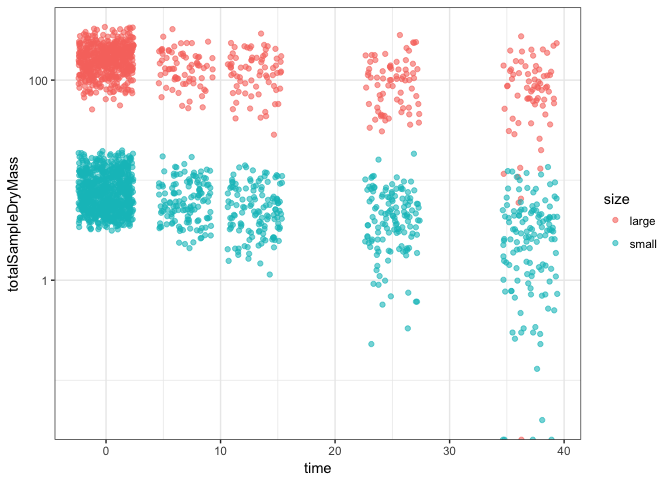
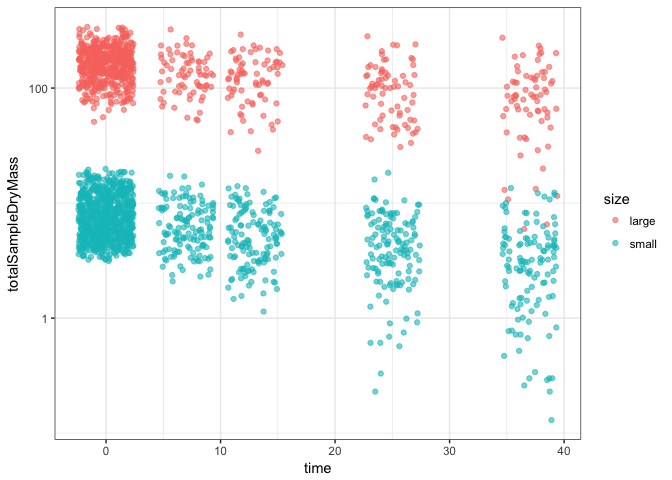
more checks

diff --git a/README.md b/README.md
@@ -127,49 +127,62 @@ mass.data %>%
   knitr::kable()
 ```
 
-| unique   | Species    | size     |     time|  totalSampleDryMass|  density| fruiting | insects | drill | notes |
-|:---------|:-----------|:---------|--------:|-------------------:|--------:|:---------|:--------|:------|:------|
-| olst1e   | olst       | small    |        0|                  NA|       NA| NA       | NA      | NA    | NA    |
-| olst1j   | olst       | small    |        0|                  NA|       NA| NA       | NA      | NA    | NA    |
-| olst1i   | olst       | small    |        0|                  NA|       NA| NA       | NA      | NA    | NA    |
-| olst2j   | olst       | small    |        0|                  NA|       NA| NA       | NA      | NA    | NA    |
-| olst2b   | olst       | small    |        0|                  NA|       NA| NA       | NA      | NA    | NA    |
-| olst2d   | olst       | small    |        0|                  NA|       NA| NA       | NA      | NA    | NA    |
-| olst4h   | olst       | small    |        0|                  NA|       NA| NA       | NA      | NA    | NA    |
-| olst1c   | olst       | small    |        0|                  NA|       NA| NA       | NA      | NA    | NA    |
-| olst3a   | olst       | small    |        0|                  NA|       NA| NA       | NA      | NA    | NA    |
-| olst3b   | olst       | small    |        0|                  NA|       NA| NA       | NA      | NA    | NA    |
-| olst4e   | olst       | small    |        0|                  NA|       NA| NA       | NA      | NA    | NA    |
-| olst1a   | olst       | small    |        0|                  NA|       NA| NA       | NA      | NA    | NA    |
-| olst4f   | olst       | small    |        0|                  NA|       NA| NA       | NA      | NA    | NA    |
-| olst2i   | olst       | small    |        0|                  NA|       NA| NA       | NA      | NA    | NA    |
-| olst2e   | olst       | small    |        0|                  NA|       NA| NA       | NA      | NA    | NA    |
-| olst4i   | olst       | small    |        0|                  NA|       NA| NA       | NA      | NA    | NA    |
-| olst2g   | olst       | small    |        0|                  NA|       NA| NA       | NA      | NA    | NA    |
-| olst1d   | olst       | small    |        0|                  NA|       NA| NA       | NA      | NA    | NA    |
-| olst2h   | olst       | small    |        0|                  NA|       NA| NA       | NA      | NA    | NA    |
-| olst2c   | olst       | small    |        0|                  NA|       NA| NA       | NA      | NA    | NA    |
-| olst4c   | olst       | small    |        0|                  NA|       NA| NA       | NA      | NA    | NA    |
-| olst2f   | olst       | small    |        0|                  NA|       NA| NA       | NA      | NA    | NA    |
-| olst2a   | olst       | small    |        0|                  NA|       NA| NA       | NA      | NA    | NA    |
-| olst4b   | olst       | small    |        0|                  NA|       NA| NA       | NA      | NA    | NA    |
-| olst1b   | olst       | small    |        0|                  NA|       NA| NA       | NA      | NA    | NA    |
-| olst1k   | olst       | small    |        0|                  NA|       NA| NA       | NA      | NA    | NA    |
-| olst1g   | olst       | small    |        0|                  NA|       NA| NA       | NA      | NA    | NA    |
-| olst1h   | olst       | small    |        0|                  NA|       NA| NA       | NA      | NA    | NA    |
-| olst4g   | olst       | small    |        0|                  NA|       NA| NA       | NA      | NA    | NA    |
-| olst4a   | olst       | small    |        0|                  NA|       NA| NA       | NA      | NA    | NA    |
-| olst3c   | olst       | small    |        0|                  NA|       NA| NA       | NA      | NA    | NA    |
-| olst1f   | olst       | small    |        0|                  NA|       NA| NA       | NA      | NA    | NA    |
-| olst4d   | olst       | small    |        0|                  NA|       NA| NA       | NA      | NA    | NA    |
-| Identify | outliers i | n mass l |  oss dat|                   a|         |          |         |       |       |
+| unique     | Species    | size    |     time|  totalSampleDryMass|  density| fruiting      | insects | drill | notes                                                       |
+|:-----------|:-----------|:--------|--------:|-------------------:|--------:|:--------------|:--------|:------|:------------------------------------------------------------|
+| olst1e     | olst       | small   |        0|                  NA|       NA| NA            | NA      | NA    | NA                                                          |
+| olst1j     | olst       | small   |        0|                  NA|       NA| NA            | NA      | NA    | NA                                                          |
+| olst1i     | olst       | small   |        0|                  NA|       NA| NA            | NA      | NA    | NA                                                          |
+| olst2j     | olst       | small   |        0|                  NA|       NA| NA            | NA      | NA    | NA                                                          |
+| olst2b     | olst       | small   |        0|                  NA|       NA| NA            | NA      | NA    | NA                                                          |
+| olst2d     | olst       | small   |        0|                  NA|       NA| NA            | NA      | NA    | NA                                                          |
+| olst4h     | olst       | small   |        0|                  NA|       NA| NA            | NA      | NA    | NA                                                          |
+| olst1c     | olst       | small   |        0|                  NA|       NA| NA            | NA      | NA    | NA                                                          |
+| olst3a     | olst       | small   |        0|                  NA|       NA| NA            | NA      | NA    | NA                                                          |
+| olst3b     | olst       | small   |        0|                  NA|       NA| NA            | NA      | NA    | NA                                                          |
+| olst4e     | olst       | small   |        0|                  NA|       NA| NA            | NA      | NA    | NA                                                          |
+| olst1a     | olst       | small   |        0|                  NA|       NA| NA            | NA      | NA    | NA                                                          |
+| olst4f     | olst       | small   |        0|                  NA|       NA| NA            | NA      | NA    | NA                                                          |
+| olst2i     | olst       | small   |        0|                  NA|       NA| NA            | NA      | NA    | NA                                                          |
+| olst2e     | olst       | small   |        0|                  NA|       NA| NA            | NA      | NA    | NA                                                          |
+| olst4i     | olst       | small   |        0|                  NA|       NA| NA            | NA      | NA    | NA                                                          |
+| olst2g     | olst       | small   |        0|                  NA|       NA| NA            | NA      | NA    | NA                                                          |
+| olst1d     | olst       | small   |        0|                  NA|       NA| NA            | NA      | NA    | NA                                                          |
+| olst2h     | olst       | small   |        0|                  NA|       NA| NA            | NA      | NA    | NA                                                          |
+| olst2c     | olst       | small   |        0|                  NA|       NA| NA            | NA      | NA    | NA                                                          |
+| olst4c     | olst       | small   |        0|                  NA|       NA| NA            | NA      | NA    | NA                                                          |
+| olst2f     | olst       | small   |        0|                  NA|       NA| NA            | NA      | NA    | NA                                                          |
+| olst2a     | olst       | small   |        0|                  NA|       NA| NA            | NA      | NA    | NA                                                          |
+| olst4b     | olst       | small   |        0|                  NA|       NA| NA            | NA      | NA    | NA                                                          |
+| olst1b     | olst       | small   |        0|                  NA|       NA| NA            | NA      | NA    | NA                                                          |
+| olst1k     | olst       | small   |        0|                  NA|       NA| NA            | NA      | NA    | NA                                                          |
+| olst1g     | olst       | small   |        0|                  NA|       NA| NA            | NA      | NA    | NA                                                          |
+| olst1h     | olst       | small   |        0|                  NA|       NA| NA            | NA      | NA    | NA                                                          |
+| olst4g     | olst       | small   |        0|                  NA|       NA| NA            | NA      | NA    | NA                                                          |
+| olst4a     | olst       | small   |        0|                  NA|       NA| NA            | NA      | NA    | NA                                                          |
+| olst3c     | olst       | small   |        0|                  NA|       NA| NA            | NA      | NA    | NA                                                          |
+| olst1f     | olst       | small   |        0|                  NA|       NA| NA            | NA      | NA    | NA                                                          |
+| olst4d     | olst       | small   |        0|                  NA|       NA| NA            | NA      | NA    | NA                                                          |
+| ripi1j     | ripi       | small   |       37|                  NA|       NA|               | 4       | yes   | completely rotted, no sample -- completely rotted/no sample |
+| eute2b     | eute       | small   |       37|                  NA|       NA|               | NA      | yes   | all wwe -- all wet weight excess                            |
+| acel2f     | acel       | small   |       37|                  NA|       NA|               | 3       | yes   | all wwe -- all wet weight excess                            |
+| olst1c     | olst       | small   |       37|                  NA|       NA|               | NA      | yes   | all wwe -- all wet weight excess                            |
+| eusc3j     | eusc       | small   |       37|                  NA|       NA|               | 3       | yes   | all wwe -- all wet weight excess                            |
+| ALLI311    | ALLI       | large   |       37|                  NA|       NA|               | NA      | no    | missing from plot -- missing                                |
+| hase2b     | hase       | small   |       37|                  NA|       NA|               | 4       | no    | completely rotted, no sample -- completely rotted/no sample |
+| anba3g     | anba       | small   |       37|                  NA|       NA| orange hyphae | 3       | no    | all wwe -- all wet weight excess                            |
+| anba3f     | anba       | small   |       37|                  NA|       NA|               | 3       | no    | all wwe -- all wet weight excess                            |
+| baae1a     | baae       | small   |       37|                  NA|       NA|               | NA      | no    | missing from plot -- missing from plot                      |
+| eute1e     | eute       | small   |       37|                  NA|       NA|               | 4       | no    | missing/rotted -- missing/rotted                            |
+| eute1l     | eute       | small   |       37|                  NA|       NA|               | 4       | no    | all wwe -- completely rotted                                |
+| cota1d     | cota       | small   |       37|                  NA|       NA|               | NA      | yes   | -- most crumbled                                            |
+| Identify o | utliers in | mass lo |  ss data|                    |         |               |         |       |                                                             |
 
 ``` r
 mass.data %>% 
   ggplot(aes(x=time, y=totalSampleDryMass)) + geom_point(alpha=0.6)+theme_bw() 
 ```
 
-    ## Warning: Removed 33 rows containing missing values (geom_point).
+    ## Warning: Removed 46 rows containing missing values (geom_point).
 
 ![](readme_files/figure-markdown_github-ascii_identifiers/unnamed-chunk-5-1.png)
 
@@ -198,9 +211,7 @@ mass.data %>%
   geom_point(position="jitter",alpha=0.6)+theme_bw()+scale_y_log10()
 ```
 
-    ## Warning: Transformation introduced infinite values in continuous y-axis
-
-    ## Warning: Removed 33 rows containing missing values (geom_point).
+    ## Warning: Removed 46 rows containing missing values (geom_point).
 
 ![](readme_files/figure-markdown_github-ascii_identifiers/unnamed-chunk-6-1.png)
 
@@ -228,15 +239,10 @@ Are these real 0's?
 mass.data[which(mass.data$totalSampleDryMass==0),]
 ```
 
-    ## # A tibble: 5 x 10
-    ##    unique Species  size  time totalSampleDryMass density fruiting insects
-    ##     <chr>   <chr> <chr> <dbl>              <dbl>   <dbl>    <chr>   <chr>
-    ## 1  ripi1j    ripi small    37                  0     NaN                4
-    ## 2 ALLI311    ALLI large    37                  0     NaN             <NA>
-    ## 3  hase2b    hase small    37                  0     NaN                4
-    ## 4  baae1a    baae small    37                  0     NaN             <NA>
-    ## 5  eute1e    eute small    37                  0     NaN                4
-    ## # ... with 2 more variables: drill <chr>, notes <chr>
+    ## # A tibble: 0 x 10
+    ## # ... with 10 variables: unique <chr>, Species <chr>, size <chr>,
+    ## #   time <dbl>, totalSampleDryMass <dbl>, density <dbl>, fruiting <chr>,
+    ## #   insects <chr>, drill <chr>, notes <chr>
 
 Remove outliers from mass.data and merge time zero with the other harvests to calculate proportion mass remaining at each time point
 
@@ -263,65 +269,77 @@ mass.data %>%
     knitr::kable()
 ```
 
-| unique | Species | size  |  time|  totalSampleDryMass|  density| fruiting                | insects        | drill | notes                            |  timeZeroMass|  timeZeroDensity|  pmr| SpeciesCode |
-|:-------|:--------|:------|-----:|-------------------:|--------:|:------------------------|:---------------|:------|:---------------------------------|-------------:|----------------:|----:|:------------|
-| olst1e | olst    | small |     0|                  NA|       NA| NA                      | NA             | NA    | NA                               |            NA|               NA|   NA| olst        |
-| olst1j | olst    | small |     0|                  NA|       NA| NA                      | NA             | NA    | NA                               |            NA|               NA|   NA| olst        |
-| olst1i | olst    | small |     0|                  NA|       NA| NA                      | NA             | NA    | NA                               |            NA|               NA|   NA| olst        |
-| olst2j | olst    | small |     0|                  NA|       NA| NA                      | NA             | NA    | NA                               |            NA|               NA|   NA| olst        |
-| olst2b | olst    | small |     0|                  NA|       NA| NA                      | NA             | NA    | NA                               |            NA|               NA|   NA| olst        |
-| olst2d | olst    | small |     0|                  NA|       NA| NA                      | NA             | NA    | NA                               |            NA|               NA|   NA| olst        |
-| olst4h | olst    | small |     0|                  NA|       NA| NA                      | NA             | NA    | NA                               |            NA|               NA|   NA| olst        |
-| olst1c | olst    | small |     0|                  NA|       NA| NA                      | NA             | NA    | NA                               |            NA|               NA|   NA| olst        |
-| olst3a | olst    | small |     0|                  NA|       NA| NA                      | NA             | NA    | NA                               |            NA|               NA|   NA| olst        |
-| olst3b | olst    | small |     0|                  NA|       NA| NA                      | NA             | NA    | NA                               |            NA|               NA|   NA| olst        |
-| olst4e | olst    | small |     0|                  NA|       NA| NA                      | NA             | NA    | NA                               |            NA|               NA|   NA| olst        |
-| olst1a | olst    | small |     0|                  NA|       NA| NA                      | NA             | NA    | NA                               |            NA|               NA|   NA| olst        |
-| olst4f | olst    | small |     0|                  NA|       NA| NA                      | NA             | NA    | NA                               |            NA|               NA|   NA| olst        |
-| olst2i | olst    | small |     0|                  NA|       NA| NA                      | NA             | NA    | NA                               |            NA|               NA|   NA| olst        |
-| olst2e | olst    | small |     0|                  NA|       NA| NA                      | NA             | NA    | NA                               |            NA|               NA|   NA| olst        |
-| olst4i | olst    | small |     0|                  NA|       NA| NA                      | NA             | NA    | NA                               |            NA|               NA|   NA| olst        |
-| olst2g | olst    | small |     0|                  NA|       NA| NA                      | NA             | NA    | NA                               |            NA|               NA|   NA| olst        |
-| olst1d | olst    | small |     0|                  NA|       NA| NA                      | NA             | NA    | NA                               |            NA|               NA|   NA| olst        |
-| olst2h | olst    | small |     0|                  NA|       NA| NA                      | NA             | NA    | NA                               |            NA|               NA|   NA| olst        |
-| olst2c | olst    | small |     0|                  NA|       NA| NA                      | NA             | NA    | NA                               |            NA|               NA|   NA| olst        |
-| olst4c | olst    | small |     0|                  NA|       NA| NA                      | NA             | NA    | NA                               |            NA|               NA|   NA| olst        |
-| olst2f | olst    | small |     0|                  NA|       NA| NA                      | NA             | NA    | NA                               |            NA|               NA|   NA| olst        |
-| olst2a | olst    | small |     0|                  NA|       NA| NA                      | NA             | NA    | NA                               |            NA|               NA|   NA| olst        |
-| olst4b | olst    | small |     0|                  NA|       NA| NA                      | NA             | NA    | NA                               |            NA|               NA|   NA| olst        |
-| olst1b | olst    | small |     0|                  NA|       NA| NA                      | NA             | NA    | NA                               |            NA|               NA|   NA| olst        |
-| olst1k | olst    | small |     0|                  NA|       NA| NA                      | NA             | NA    | NA                               |            NA|               NA|   NA| olst        |
-| olst1g | olst    | small |     0|                  NA|       NA| NA                      | NA             | NA    | NA                               |            NA|               NA|   NA| olst        |
-| olst1h | olst    | small |     0|                  NA|       NA| NA                      | NA             | NA    | NA                               |            NA|               NA|   NA| olst        |
-| olst4g | olst    | small |     0|                  NA|       NA| NA                      | NA             | NA    | NA                               |            NA|               NA|   NA| olst        |
-| olst4a | olst    | small |     0|                  NA|       NA| NA                      | NA             | NA    | NA                               |            NA|               NA|   NA| olst        |
-| olst3c | olst    | small |     0|                  NA|       NA| NA                      | NA             | NA    | NA                               |            NA|               NA|   NA| olst        |
-| olst1f | olst    | small |     0|                  NA|       NA| NA                      | NA             | NA    | NA                               |            NA|               NA|   NA| olst        |
-| olst4d | olst    | small |     0|                  NA|       NA| NA                      | NA             | NA    | NA                               |            NA|               NA|   NA| olst        |
-| olst1j | olst    | small |     7|               10.41|     0.57| NA                      |                | yes   |                                  |            NA|               NA|   NA| olst        |
-| olst1i | olst    | small |     7|               10.20|     0.60| NA                      | 1 lg, 5mm diam | yes   |                                  |            NA|               NA|   NA| olst        |
-| olst1a | olst    | small |     7|                3.15|     0.63| NA                      |                | yes   |                                  |            NA|               NA|   NA| olst        |
-| olst4f | olst    | small |     7|                5.55|     0.61| NA                      |                | no    |                                  |            NA|               NA|   NA| olst        |
-| olst2i | olst    | small |     7|                5.91|     0.61| NA                      |                | no    |                                  |            NA|               NA|   NA| olst        |
-| olst2f | olst    | small |     7|               11.06|     0.59| NA                      |                | no    |                                  |            NA|               NA|   NA| olst        |
-| olst4h | olst    | small |    13|                2.13|     0.56|                         |                | yes   |                                  |            NA|               NA|   NA| olst        |
-| olst4e | olst    | small |    13|                2.99|     0.55|                         |                | yes   |                                  |            NA|               NA|   NA| olst        |
-| olst4c | olst    | small |    13|                4.60|     0.63|                         |                | yes   |                                  |            NA|               NA|   NA| olst        |
-| olst4b | olst    | small |    13|                7.37|     0.52|                         |                | no    |                                  |            NA|               NA|   NA| olst        |
-| olst1k | olst    | small |    13|                6.40|     0.49|                         |                | no    |                                  |            NA|               NA|   NA| olst        |
-| olst1h | olst    | small |    13|                8.64|     0.45|                         |                | no    |                                  |            NA|               NA|   NA| olst        |
-| olst2d | olst    | small |    25|                3.94|     0.09| hyphae                  |                | yes   | 2 pieces                         |            NA|               NA|   NA| olst        |
-| olst3a | olst    | small |    25|                2.93|     0.52| fuzzy brown hyphae      |                | yes   |                                  |            NA|               NA|   NA| olst        |
-| olst2e | olst    | small |    25|                5.31|     0.51| fuzzy brown hyphae      |                | yes   | bark flaking off                 |            NA|               NA|   NA| olst        |
-| olst2g | olst    | small |    25|                2.75|     0.38|                         |                | no    | thin bark almost all gone        |            NA|               NA|   NA| olst        |
-| olst2c | olst    | small |    25|                4.65|     0.32| hyphae                  |                | no    | broken, rotted                   |            NA|               NA|   NA| olst        |
-| olst1b | olst    | small |    25|                4.28|     0.49|                         |                | no    |                                  |            NA|               NA|   NA| olst        |
-| olst2b | olst    | small |    37|                4.85|     0.65| brown mycellium at ends | NA             | yes   | -- bark all off                  |            NA|               NA|   NA| olst        |
-| olst1c | olst    | small |    37|                0.99|      NaN|                         | NA             | yes   | all wwe -- all wet weight excess |            NA|               NA|   NA| olst        |
-| olst3b | olst    | small |    37|                1.53|     0.65| brown mycellium at ends | 1              | no    | --                               |            NA|               NA|   NA| olst        |
-| olst1e | olst    | small |    37|                0.77|      NaN|                         | NA             | yes   | all crumbled once handled --     |            NA|               NA|   NA| olst        |
-| olst4g | olst    | small |    37|                3.32|     0.50|                         | 0              | no    | -- intact, no rot                |            NA|               NA|   NA| olst        |
-| olst4a | olst    | small |    37|                2.58|     0.41|                         | 1              | no    | -- looks intact/slightly soft    |            NA|               NA|   NA| olst        |
+| unique  | Species | size  |  time|  totalSampleDryMass|  density| fruiting                | insects        | drill | notes                                                       |  timeZeroMass|  timeZeroDensity|  pmr| SpeciesCode |
+|:--------|:--------|:------|-----:|-------------------:|--------:|:------------------------|:---------------|:------|:------------------------------------------------------------|-------------:|----------------:|----:|:------------|
+| olst1e  | olst    | small |     0|                  NA|       NA| NA                      | NA             | NA    | NA                                                          |            NA|               NA|   NA| olst        |
+| olst1j  | olst    | small |     0|                  NA|       NA| NA                      | NA             | NA    | NA                                                          |            NA|               NA|   NA| olst        |
+| olst1i  | olst    | small |     0|                  NA|       NA| NA                      | NA             | NA    | NA                                                          |            NA|               NA|   NA| olst        |
+| olst2j  | olst    | small |     0|                  NA|       NA| NA                      | NA             | NA    | NA                                                          |            NA|               NA|   NA| olst        |
+| olst2b  | olst    | small |     0|                  NA|       NA| NA                      | NA             | NA    | NA                                                          |            NA|               NA|   NA| olst        |
+| olst2d  | olst    | small |     0|                  NA|       NA| NA                      | NA             | NA    | NA                                                          |            NA|               NA|   NA| olst        |
+| olst4h  | olst    | small |     0|                  NA|       NA| NA                      | NA             | NA    | NA                                                          |            NA|               NA|   NA| olst        |
+| olst1c  | olst    | small |     0|                  NA|       NA| NA                      | NA             | NA    | NA                                                          |            NA|               NA|   NA| olst        |
+| olst3a  | olst    | small |     0|                  NA|       NA| NA                      | NA             | NA    | NA                                                          |            NA|               NA|   NA| olst        |
+| olst3b  | olst    | small |     0|                  NA|       NA| NA                      | NA             | NA    | NA                                                          |            NA|               NA|   NA| olst        |
+| olst4e  | olst    | small |     0|                  NA|       NA| NA                      | NA             | NA    | NA                                                          |            NA|               NA|   NA| olst        |
+| olst1a  | olst    | small |     0|                  NA|       NA| NA                      | NA             | NA    | NA                                                          |            NA|               NA|   NA| olst        |
+| olst4f  | olst    | small |     0|                  NA|       NA| NA                      | NA             | NA    | NA                                                          |            NA|               NA|   NA| olst        |
+| olst2i  | olst    | small |     0|                  NA|       NA| NA                      | NA             | NA    | NA                                                          |            NA|               NA|   NA| olst        |
+| olst2e  | olst    | small |     0|                  NA|       NA| NA                      | NA             | NA    | NA                                                          |            NA|               NA|   NA| olst        |
+| olst4i  | olst    | small |     0|                  NA|       NA| NA                      | NA             | NA    | NA                                                          |            NA|               NA|   NA| olst        |
+| olst2g  | olst    | small |     0|                  NA|       NA| NA                      | NA             | NA    | NA                                                          |            NA|               NA|   NA| olst        |
+| olst1d  | olst    | small |     0|                  NA|       NA| NA                      | NA             | NA    | NA                                                          |            NA|               NA|   NA| olst        |
+| olst2h  | olst    | small |     0|                  NA|       NA| NA                      | NA             | NA    | NA                                                          |            NA|               NA|   NA| olst        |
+| olst2c  | olst    | small |     0|                  NA|       NA| NA                      | NA             | NA    | NA                                                          |            NA|               NA|   NA| olst        |
+| olst4c  | olst    | small |     0|                  NA|       NA| NA                      | NA             | NA    | NA                                                          |            NA|               NA|   NA| olst        |
+| olst2f  | olst    | small |     0|                  NA|       NA| NA                      | NA             | NA    | NA                                                          |            NA|               NA|   NA| olst        |
+| olst2a  | olst    | small |     0|                  NA|       NA| NA                      | NA             | NA    | NA                                                          |            NA|               NA|   NA| olst        |
+| olst4b  | olst    | small |     0|                  NA|       NA| NA                      | NA             | NA    | NA                                                          |            NA|               NA|   NA| olst        |
+| olst1b  | olst    | small |     0|                  NA|       NA| NA                      | NA             | NA    | NA                                                          |            NA|               NA|   NA| olst        |
+| olst1k  | olst    | small |     0|                  NA|       NA| NA                      | NA             | NA    | NA                                                          |            NA|               NA|   NA| olst        |
+| olst1g  | olst    | small |     0|                  NA|       NA| NA                      | NA             | NA    | NA                                                          |            NA|               NA|   NA| olst        |
+| olst1h  | olst    | small |     0|                  NA|       NA| NA                      | NA             | NA    | NA                                                          |            NA|               NA|   NA| olst        |
+| olst4g  | olst    | small |     0|                  NA|       NA| NA                      | NA             | NA    | NA                                                          |            NA|               NA|   NA| olst        |
+| olst4a  | olst    | small |     0|                  NA|       NA| NA                      | NA             | NA    | NA                                                          |            NA|               NA|   NA| olst        |
+| olst3c  | olst    | small |     0|                  NA|       NA| NA                      | NA             | NA    | NA                                                          |            NA|               NA|   NA| olst        |
+| olst1f  | olst    | small |     0|                  NA|       NA| NA                      | NA             | NA    | NA                                                          |            NA|               NA|   NA| olst        |
+| olst4d  | olst    | small |     0|                  NA|       NA| NA                      | NA             | NA    | NA                                                          |            NA|               NA|   NA| olst        |
+| olst1j  | olst    | small |     7|               10.41|     0.57| NA                      |                | yes   |                                                             |            NA|               NA|   NA| olst        |
+| olst1i  | olst    | small |     7|               10.20|     0.60| NA                      | 1 lg, 5mm diam | yes   |                                                             |            NA|               NA|   NA| olst        |
+| olst1a  | olst    | small |     7|                3.15|     0.63| NA                      |                | yes   |                                                             |            NA|               NA|   NA| olst        |
+| olst4f  | olst    | small |     7|                5.55|     0.61| NA                      |                | no    |                                                             |            NA|               NA|   NA| olst        |
+| olst2i  | olst    | small |     7|                5.91|     0.61| NA                      |                | no    |                                                             |            NA|               NA|   NA| olst        |
+| olst2f  | olst    | small |     7|               11.06|     0.59| NA                      |                | no    |                                                             |            NA|               NA|   NA| olst        |
+| olst4h  | olst    | small |    13|                2.13|     0.56|                         |                | yes   |                                                             |            NA|               NA|   NA| olst        |
+| olst4e  | olst    | small |    13|                2.99|     0.55|                         |                | yes   |                                                             |            NA|               NA|   NA| olst        |
+| olst4c  | olst    | small |    13|                4.60|     0.63|                         |                | yes   |                                                             |            NA|               NA|   NA| olst        |
+| olst4b  | olst    | small |    13|                7.37|     0.52|                         |                | no    |                                                             |            NA|               NA|   NA| olst        |
+| olst1k  | olst    | small |    13|                6.40|     0.49|                         |                | no    |                                                             |            NA|               NA|   NA| olst        |
+| olst1h  | olst    | small |    13|                8.64|     0.45|                         |                | no    |                                                             |            NA|               NA|   NA| olst        |
+| olst2d  | olst    | small |    25|                3.94|     0.09| hyphae                  |                | yes   | 2 pieces                                                    |            NA|               NA|   NA| olst        |
+| olst3a  | olst    | small |    25|                2.93|     0.52| fuzzy brown hyphae      |                | yes   |                                                             |            NA|               NA|   NA| olst        |
+| olst2e  | olst    | small |    25|                5.31|     0.51| fuzzy brown hyphae      |                | yes   | bark flaking off                                            |            NA|               NA|   NA| olst        |
+| olst2g  | olst    | small |    25|                2.75|     0.38|                         |                | no    | thin bark almost all gone                                   |            NA|               NA|   NA| olst        |
+| olst2c  | olst    | small |    25|                4.65|     0.32| hyphae                  |                | no    | broken, rotted                                              |            NA|               NA|   NA| olst        |
+| olst1b  | olst    | small |    25|                4.28|     0.49|                         |                | no    |                                                             |            NA|               NA|   NA| olst        |
+| olst2b  | olst    | small |    37|                4.85|     0.65| brown mycellium at ends | NA             | yes   | -- bark all off                                             |            NA|               NA|   NA| olst        |
+| ripi1j  | ripi    | small |    37|                  NA|       NA|                         | 4              | yes   | completely rotted, no sample -- completely rotted/no sample |      4.963313|               NA|   NA| ripi        |
+| eute2b  | eute    | small |    37|                  NA|       NA|                         | NA             | yes   | all wwe -- all wet weight excess                            |      4.961757|               NA|   NA| eute        |
+| acel2f  | acel    | small |    37|                  NA|       NA|                         | 3              | yes   | all wwe -- all wet weight excess                            |      4.593875|               NA|   NA| acel        |
+| olst1c  | olst    | small |    37|                  NA|       NA|                         | NA             | yes   | all wwe -- all wet weight excess                            |            NA|               NA|   NA| olst        |
+| eusc3j  | eusc    | small |    37|                  NA|       NA|                         | 3              | yes   | all wwe -- all wet weight excess                            |      7.501345|               NA|   NA| eusc        |
+| olst3b  | olst    | small |    37|                1.53|     0.65| brown mycellium at ends | 1              | no    | --                                                          |            NA|               NA|   NA| olst        |
+| olst1e  | olst    | small |    37|                0.77|       NA|                         | NA             | yes   | all crumbled once handled --                                |            NA|               NA|   NA| olst        |
+| ALLI311 | ALLI    | large |    37|                  NA|       NA|                         | NA             | no    | missing from plot -- missing                                |    189.120160|               NA|   NA| alli        |
+| hase2b  | hase    | small |    37|                  NA|       NA|                         | 4              | no    | completely rotted, no sample -- completely rotted/no sample |      7.463783|               NA|   NA| hase        |
+| anba3g  | anba    | small |    37|                  NA|       NA| orange hyphae           | 3              | no    | all wwe -- all wet weight excess                            |      4.570550|               NA|   NA| anba        |
+| anba3f  | anba    | small |    37|                  NA|       NA|                         | 3              | no    | all wwe -- all wet weight excess                            |      4.477830|               NA|   NA| anba        |
+| baae1a  | baae    | small |    37|                  NA|       NA|                         | NA             | no    | missing from plot -- missing from plot                      |     10.880365|               NA|   NA| baae        |
+| eute1e  | eute    | small |    37|                  NA|       NA|                         | 4              | no    | missing/rotted -- missing/rotted                            |      9.579975|               NA|   NA| eute        |
+| eute1l  | eute    | small |    37|                  NA|       NA|                         | 4              | no    | all wwe -- completely rotted                                |      7.401324|               NA|   NA| eute        |
+| olst4g  | olst    | small |    37|                3.32|     0.50|                         | 0              | no    | -- intact, no rot                                           |            NA|               NA|   NA| olst        |
+| olst4a  | olst    | small |    37|                2.58|     0.41|                         | 1              | no    | -- looks intact/slightly soft                               |            NA|               NA|   NA| olst        |
+| cota1d  | cota    | small |    37|                  NA|       NA|                         | NA             | yes   | -- most crumbled                                            |      3.284180|               NA|   NA| cota        |
 
 ### Non-linear curve fits of decay trajectories
 
